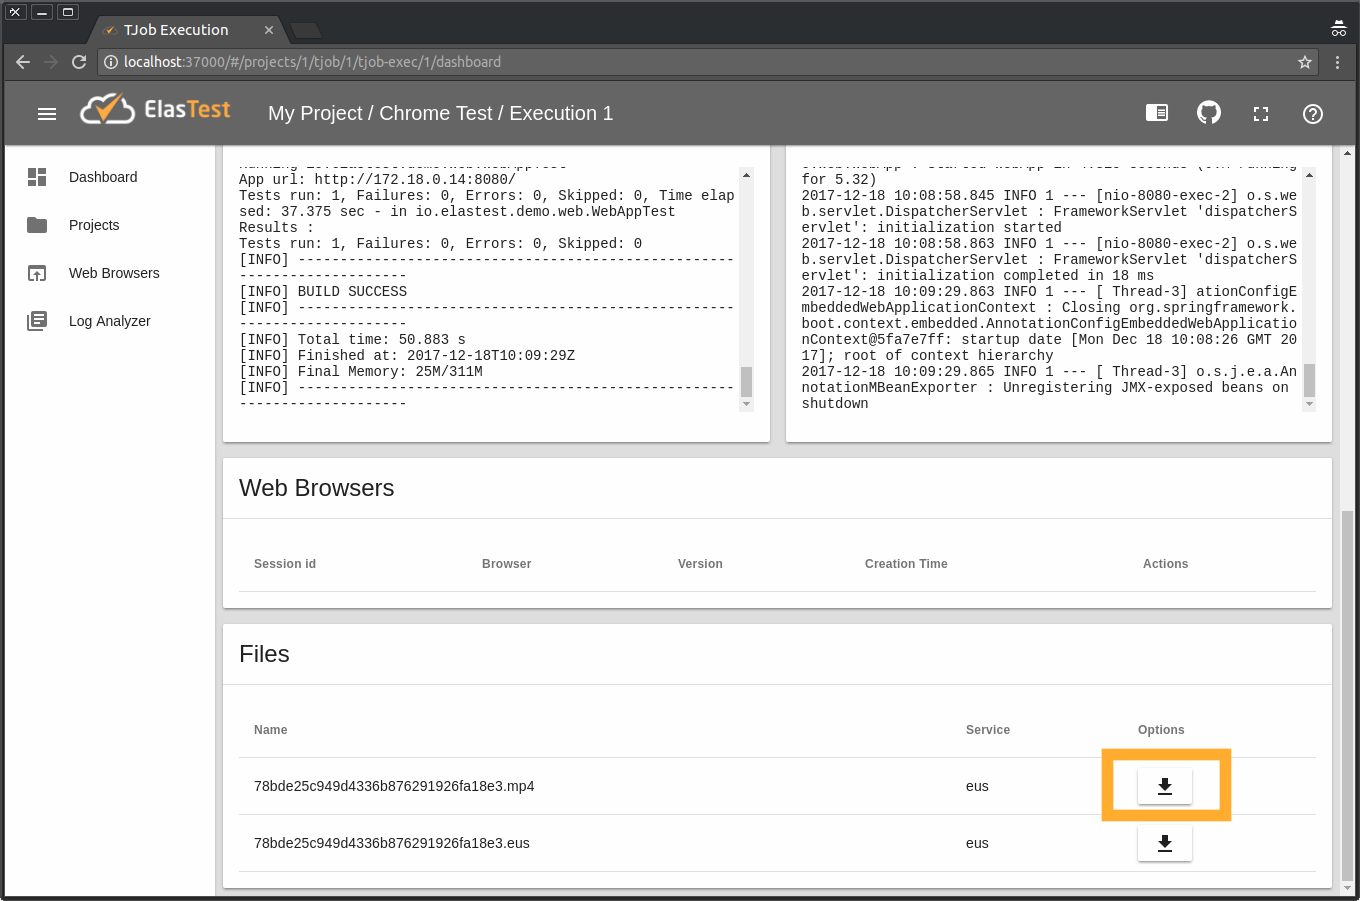
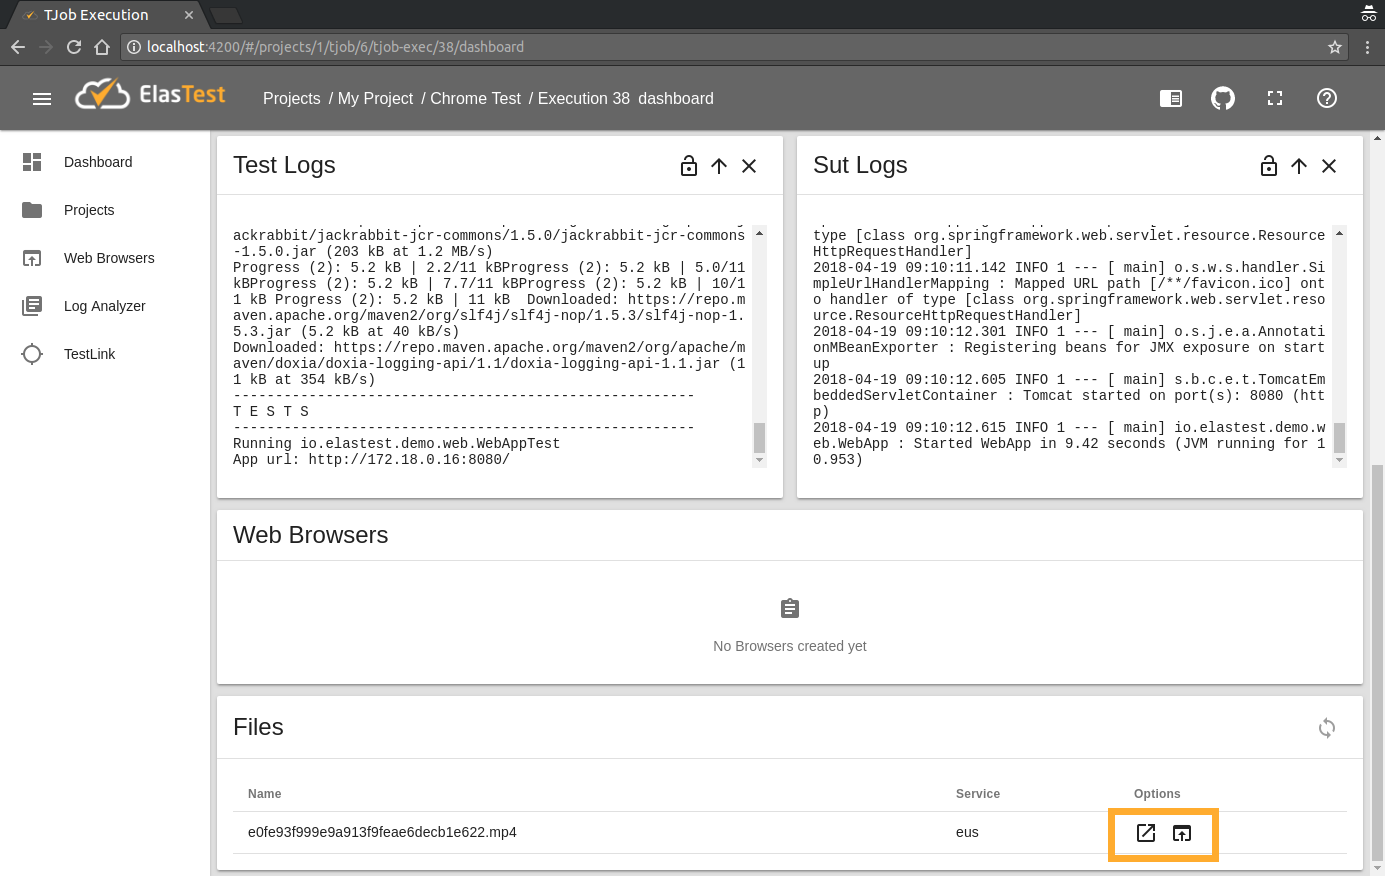
e2e documentation updated

Changed region(s): [[0.0, 0.0, 1.0, 1.0], [0.7103, 0.863, 0.7412, 0.8938], [0.0618, 0.4007, 0.0926, 0.4315]]

diff --git a/docs/web-browsers/e2e-browser.md b/docs/web-browsers/e2e-browser.md
@@ -34,7 +34,7 @@ Complete the form fields:
 <ul>
     <li><strong>SuT Name</strong>: name of the Sut (<code>Webapp</code>)</li>
     <li><strong>SuT Description</strong>: description of the SuT (<code>Webapp description</code>)</li>
-    <li><strong>With Docker Image</strong> / <strong>With Docker Compose</strong>: whether to deploy the SuT on ElasTest as a Docker <i>image</i> or a <i>docker-compose</i> (<code>With Docker Image</code>)</li>
+    <li><strong>With Commands Container</strong> / <strong>With Docker Image</strong> / <strong>With Docker Compose</strong>: whether to deploy the SuT on ElasTest as some <i>commands</i> Container,  as a Docker <i>image</i> or a <i>docker-compose</i> (<code>With Docker Image</code>)</li>
     <li><strong>Docker Image</strong>: image of the SuT (<code>elastest/demo-web-java-test-sut</code>)</li>
     <li><strong>Wait for http port</strong>: which port of the SuT should ElasTest wait to be available before starting the TJob (<code>8080</code>)</li>
 </ul>
@@ -88,7 +88,7 @@ When this TJob is executed, a web application is started (the Sut). When the web
     <a data-fancybox="gallery-1" href="/docs/testing/images/browser_test_9.png"><img class="img-responsive img-wellcome" src="/docs/testing/images/browser_test_9.png"/></a>
 </div>
 
-<p>When the test have been executed, the browser recording can be downloaded as a mp4 video file:</p>
+<p>When the test have been executed, the browser recording can be opened in a new tab or  opened as dialog:</p>
 <div class="docs-gallery inline-block">
     <a data-fancybox="gallery-1" href="/docs/testing/images/browser_test_10.png"><img class="img-responsive img-wellcome" src="/docs/testing/images/browser_test_10.png"/></a>
     <a data-fancybox="gallery-1" href="/docs/testing/images/browser_test_11.png"><img class="img-responsive img-wellcome" src="/docs/testing/images/browser_test_11.png"/></a>

diff --git a/docs/web-browsers/manual-browsers.md b/docs/web-browsers/manual-browsers.md
@@ -16,10 +16,14 @@ Currently the following browsers and versions are supported:
 
 |Browser|Versions|
 |-------|-------|
-|Chrome|57, 58, 59, 60, 61, 62|
-|Firefox|52, 53, 54, 55, 56, 57|
+|Chrome|beta, unstable, latest, from 60.0 onwards|
+|Firefox|beta, nightly, latest, from 56.0 onwards|
 |Edge|_Coming soon_|
 
+**beta** : _The last beta version_. <br>
+**unstable** : _The development version_.<br>
+**latest** : _The last stable version_.<br>
+**nightly** : _The development version_.
 
 <p>
 To launch a browser from ElasTest dashboard (<i>Web Browsers</i> page), select the desired browser and version and launch it:
@@ -39,7 +43,7 @@ Now the selected browser will be launched (it will take some time only for the f
 You can see the browser as any end user would on their own computer, and also interact directly with it: resize it, navigate to any URL ...
 
 <div class="docs-gallery inline-block">
-    <a data-fancybox="gallery-3" href="/docs/web-browsers/images/wikipedia.png"><img class="img-responsive img-wellcome" src="/docs/web-browsers/images/wikipedia.png"/></a>
+    <a data-fancybox="gallery-3" href="/docs/web-browsers/images/wikipedia.png"><img class="img-responsive img-wellcome" src="/docs/web-browsers/images/elastest.png"/></a>
 </div>
 
 Finally, whenever you close the browser (bottom-left "Close" button), after a few seconds (depending on how long the live session lasts) you will have available on "Recordings" card an _.mp4_ file ready to be downloaded with your recorded browser session.
